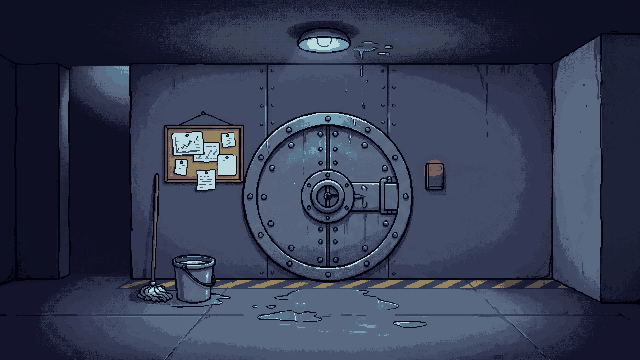
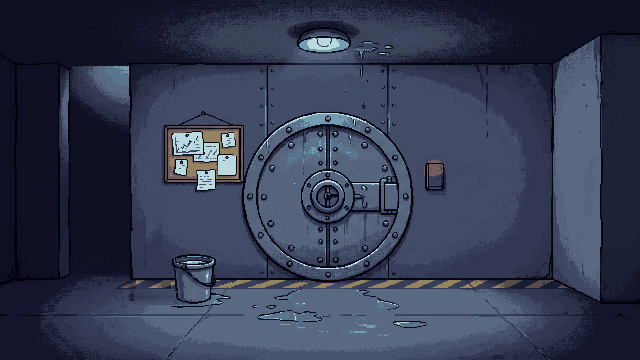
Welt 3: Laboreingang ohne Mopp an der Wand (Nacharbeit im Pixelier-Skript)

Changed region(s): [[0.1875, 0.4889, 0.2812, 0.8556]]

diff --git a/tools/grafik_w3/raeume_pixelieren.py b/tools/grafik_w3/raeume_pixelieren.py
@@ -8,7 +8,8 @@ docs/review/2026-11-20/notizen/hintergruende-pruefung.md):
    mit eigener Palette, weil Gemini es neu belichtet und gedehnt hat).
 3. Nacharbeit im gepixelten Bild (NACHARBEIT, nur Kopieren und Malen mit Palettenfarben): Einhorn
    kleiner, leerer Türrahmen in der Basis weg, Tasse an die Tischkante, Kaffeespur, Weckeranzeige
-   schwarz und Nachttisch als Vordergrundteil, drittes Glas in der Küche, Kritzelei ohne Schein-Schrift.
+   schwarz und Nachttisch als Vordergrundteil, drittes Glas in der Küche, Kritzelei ohne Schein-Schrift,
+   Mopp im Laboreingang weg.
 4. Zustände nur an der geänderten Stelle: Unterschied der verkleinerten Bilder innerhalb grober
    Rechtecke (BEREICHE), nach Umriss übernommen; „ganz“ nimmt das Rechteck vollständig. Kombinationen
    aus den Masken mehrerer Zustände (Basis: Schnee + Kaffee). Gemalte Zustände (Kaffee) entstehen
@@ -431,6 +432,32 @@ def nach_nachttisch(raum):
 
 NACHARBEIT["stadtstrasse"] = [nach_nachttisch("stadtstrasse")]
 NACHARBEIT["stadtstrasse_nacht"] = [nach_nachttisch("stadtstrasse_nacht")]
+
+
+def nach_laboreingang(bilder, pal):
+    """Mopp an der Wand weg (Sebastian, 21.11.: „mopp kann raus“; der Hausmeister hat seinen eigenen).
+    Je Band die Stelle derselben Zeilen, deren Rand am besten anschließt (gesucht über die Randpixel):
+    Wand hinter dem Stiel 351 px weiter rechts, Warnstreifen 343 px weiter rechts. Boden darunter neu
+    gerastert: je Zeile Verlauf zwischen dem Boden links (x 124–133) und rechts vom Eimer (x 226–235)."""
+    for name, a in bilder.items():
+        if a is None:
+            continue
+        alt = a.copy()
+        a[166:268, 146:162] = alt[166:268, 497:513]
+        a[268:289, 136:171] = alt[268:289, 479:514]
+        y0, y1, x0, x1 = 289, 305, 134, 174
+        links = ndimage.uniform_filter1d(alt[y0:y1, 124:134].astype(np.float32).mean(1), 7, axis=0)
+        rechts = ndimage.uniform_filter1d(alt[y0:y1, 226:236].astype(np.float32).mean(1), 7, axis=0)
+        t = ((np.arange(x0, x1) - 129) / (231 - 129))[None, :, None]
+        flaeche = np.zeros(a.shape, np.float32)
+        flaeche[y0:y1, x0:x1] = links[:, None] * (1 - t) + rechts[:, None] * t
+        feld = np.zeros(a.shape[:2], bool)
+        feld[y0:y1, x0:x1] = True
+        gerastert(a, flaeche, feld, pal)
+    return bilder
+
+
+NACHARBEIT["laboreingang"] = [nach_laboreingang]
 
 
 def raum_bauen(quelle, raum, masken=None):
